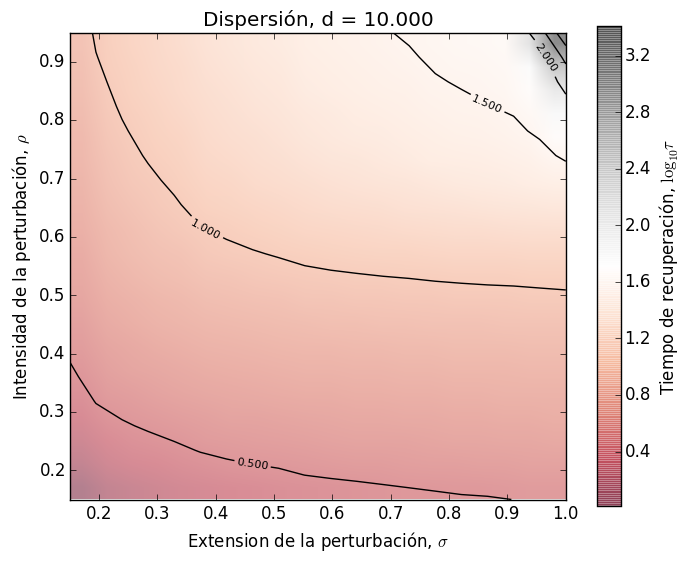
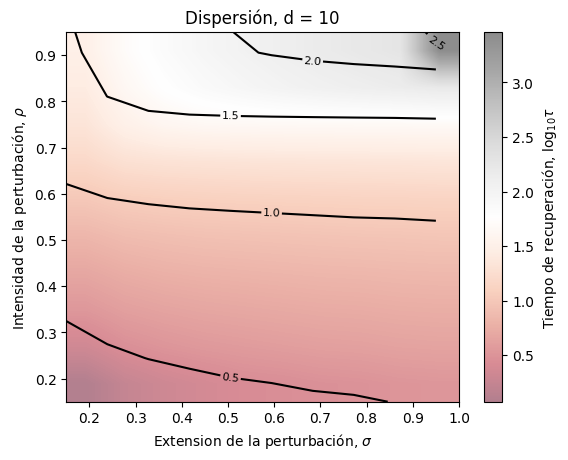
3juneagain

Changed region(s): [[0.0, 0.0, 0.9877, 0.9739]]

diff --git a/code/rettime.py b/code/rettime.py
@@ -31,11 +31,12 @@ tau_values = np.empty(shape = (size, size), dtype = float)
 
 for i in range(0,size):
     for j in range(0, size):
+        # print("sigma: %.3f y rho: %.3f" %(sigma_values[j], rho_values[i]))
         tau_values[i, j], _ , _= return_time(a, r, L, sigma = sigma_values[j], rho = rho_values[i])
         ###if tau0 required
         # tau0_values[i, j], _ , _= return_time(0, r, L, sigma = sigma_values[j], rho = rho_values[i])
 
-contours = pl.contour(rho_values, sigma_values, np.log10(tau_values), 6, colors = "black")
+contours = pl.contour(sigma_values, rho_values, np.log10(tau_values), 6, colors = "black")
 pl.clabel(contours, inline=True, fontsize=8)
 
 
@@ -53,6 +54,6 @@ pl.xlabel("Extension de la perturbación, " + r"$\sigma$")
 pl.ylabel("Intensidad de la perturbación, " + r"$\rho$")
 pl.title("Dispersión, d = %i" %a)
 
-pl.savefig("../images/recovery/return_%i" %a, bbox_inches = "tight")
+# pl.savefig("../images/recovery/return_%i" %a, bbox_inches = "tight")
 
-pl.show(block = False)
+pl.show(block = True)
